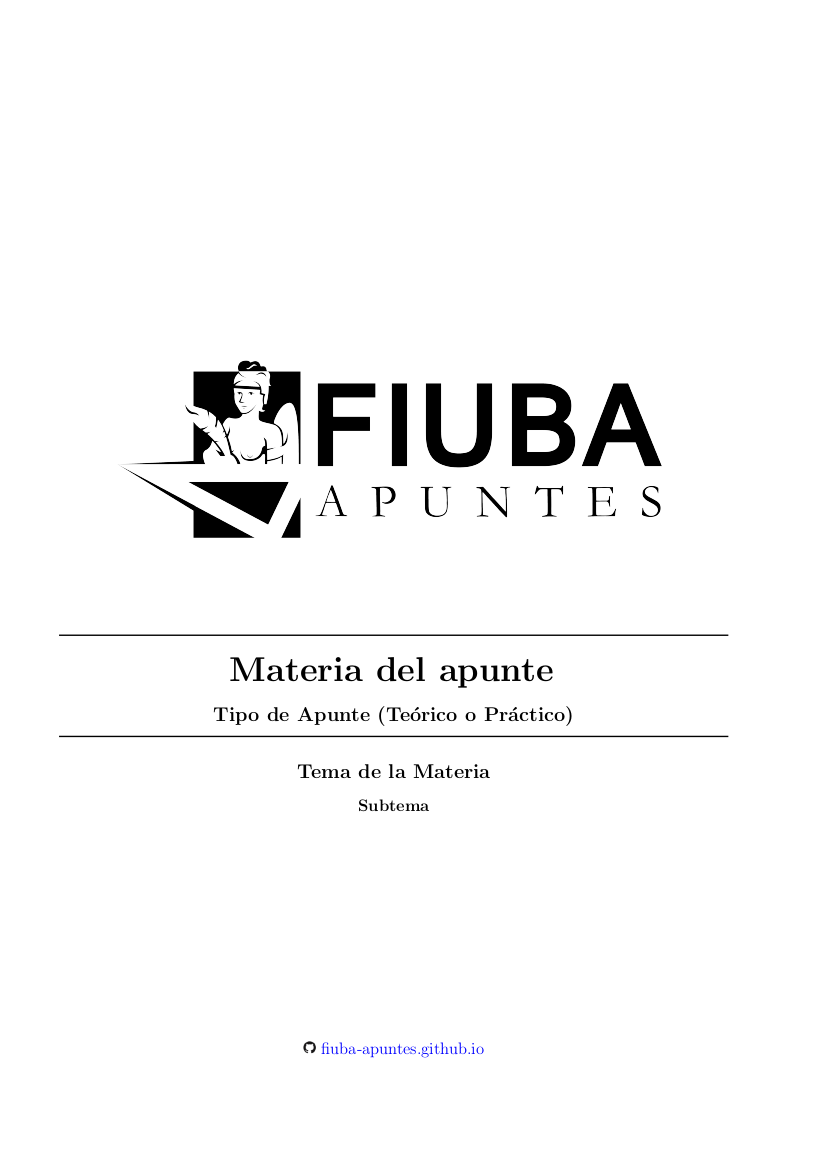
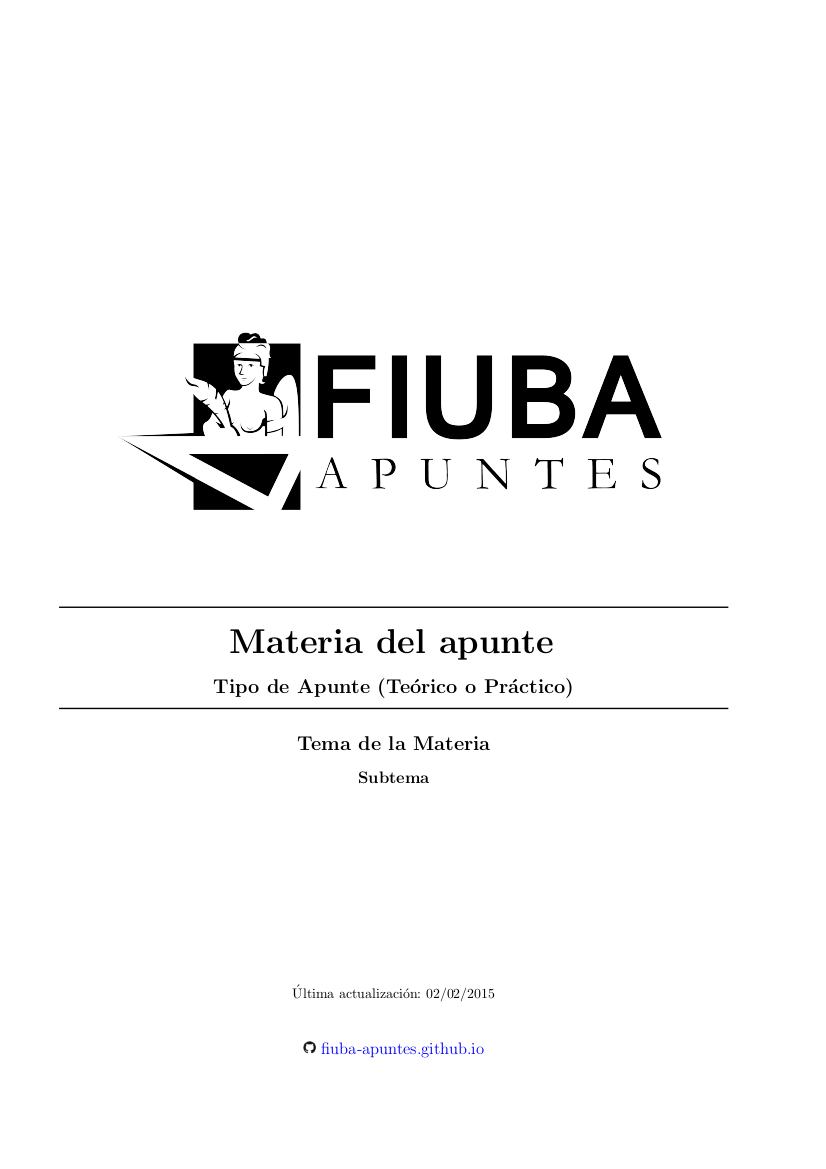
Agrego la fecha de última actualización en la carátula y simplifico el índice de la sección Sobre el proyecto

diff --git a/apunte/paquetes-apunte/sobre-el-proyecto.tex b/apunte/paquetes-apunte/sobre-el-proyecto.tex
@@ -15,7 +15,7 @@ Encontrarás más información sobre el proyecto o más apuntes en
 
 \newcommand{\usamoslatexsubsectionname}{¿Por qué usamos LaTeX?}
 \subsection*{\usamoslatexsubsectionname}
-\addcontentsline{toc}{subsection}{\usamoslatexsubsectionname}
+%\addcontentsline{toc}{subsection}{\usamoslatexsubsectionname}
 LaTeX es un sistema de composición de textos que genera documentos con alta 
 calidad tipográfica, posibilidad de representación de ecuaciones y fórmulas 
 matemáticas. Su enfoque es centrarse exclusivamente en el contenido sin tener 
@@ -31,8 +31,7 @@ los enunciados de exámenes y apuntes oficiales de algunos cursos.
 
 \newcommand{\usamosgitsubsectionname}{¿Por qué usamos Git?}
 \subsection*{\usamosgitsubsectionname}
-\addcontentsline{toc}{subsection}{\usamosgitsubsectionname}
-
+%\addcontentsline{toc}{subsection}{\usamosgitsubsectionname}
 Git es un software de control de versiones de archivos de código fuente desde 
 el cual cualquiera puede obtener una copia de un repositorio, poder realizar 
 aportes tanto realizando \textit{commits} o como realizando \textit{forks} para 
